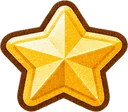
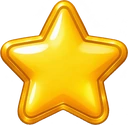
レトロ：ステージ選択タイルと星を新デザインに差し替え
Claude-Session: https://claude.ai/code/session_01C8PtLCLrCZA399Ryqnq6qb

diff --git a/fit.js b/fit.js
@@ -211,3 +211,17 @@
    +'body[data-vt=natural] .qg button .gcs{width:15px;height:15px;margin:0 0}';
   document.head.appendChild(st);
 })();
+
+/* ステージ選択タイル（レトロ） */
+(function(){
+  var b=new URL('img/retro/',document.currentScript.src).href;
+  var st=document.createElement('style');
+  st.textContent='body[data-vt=retro] .qg{gap:8px}'
+   +'body[data-vt=retro] .qg button{aspect-ratio:1/1;border:0!important;border-radius:0!important;padding:0!important;gap:0!important;flex-direction:column;align-items:center;justify-content:center;color:#ffe7b0!important;text-shadow:0 1px 2px rgba(0,0,0,.7);font-size:clamp(14px,4.6vw,19px)!important;font-weight:900;line-height:1.1;background:url('+b+'stg_frame.webp) center/100% 100% no-repeat!important;box-shadow:none}'
+   +'body[data-vt=retro] .qg button.ok{background-image:url('+b+'stg_frame_clear.webp)!important;color:#fff!important}'
+   +'body[data-vt=retro] .qg button.lk{opacity:.55;filter:grayscale(.5)}'
+   +'body[data-vt=retro] .qg button.cur{box-shadow:0 0 0 3px #fff3a0,0 0 10px #ffd36b!important;border-radius:16px!important}'
+   +'body[data-vt=retro] .qg button small{display:none;font-size:0;line-height:0;margin-top:1px}body[data-vt=retro] .qg button small:has(.gcs){display:block}'
+   +'body[data-vt=retro] .qg button .gcs{width:15px;height:15px;margin:0 0}';
+  document.head.appendChild(st);
+})();

diff --git a/sw.js b/sw.js
@@ -1,5 +1,5 @@
 // オフライン対応（ページは最新を優先、画像などはキャッシュを優先）
-const V='gc-v304';
+const V='gc-v305';
 const CORE=['./','index.html','coins.js','backup.js','manifest.webmanifest','icons/icon-192.png',
  ...['reversi','shogi','wanko','gomoku','memory','escape','rings','peg','slide','hanoi'].map(g=>g+'/')];
 self.addEventListener('install',e=>{e.waitUntil(caches.open(V).then(c=>c.addAll(CORE)).then(()=>self.skipWaiting()))});
